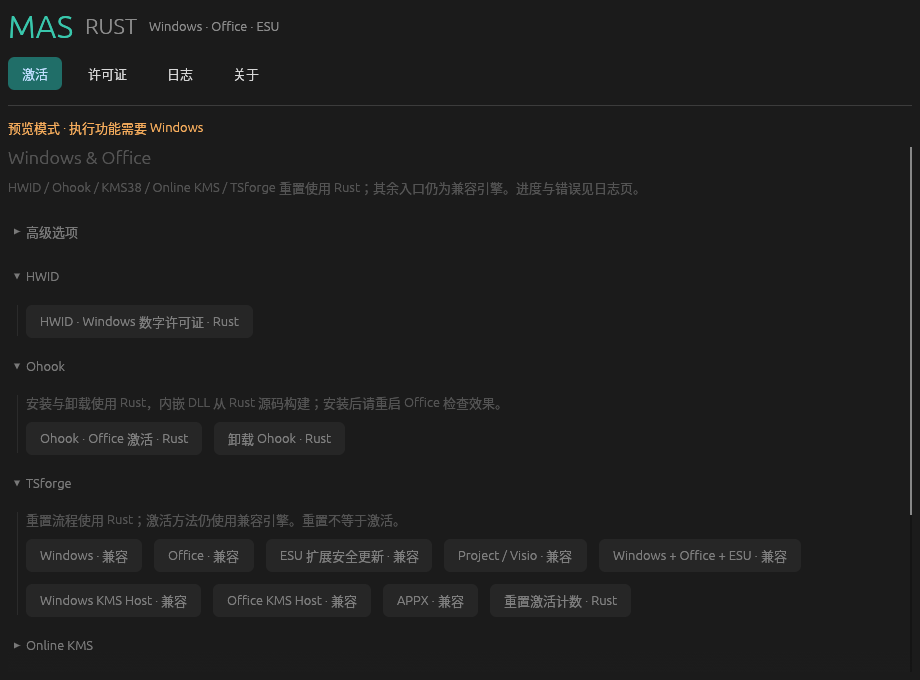
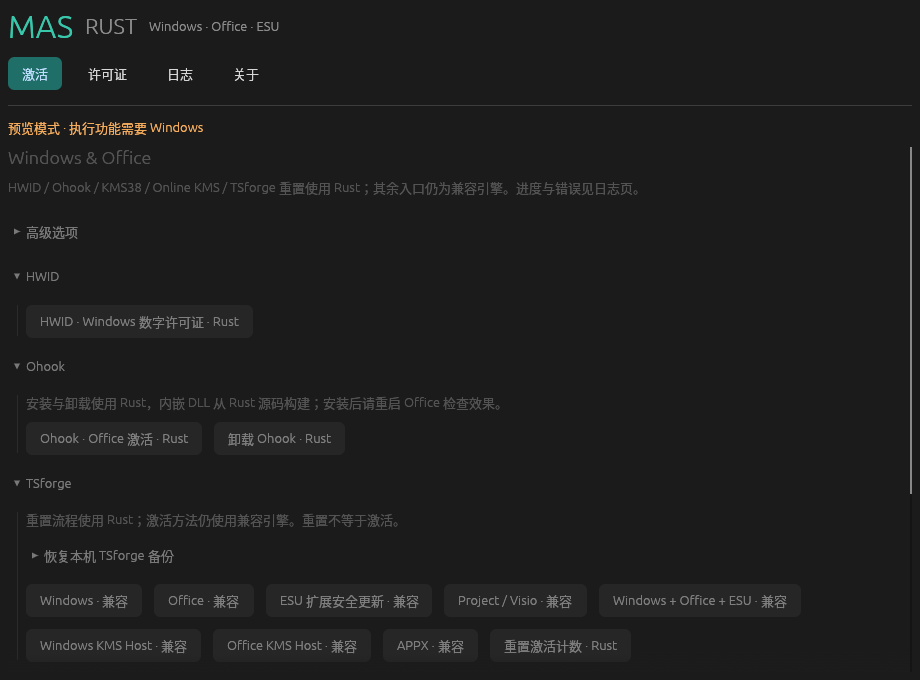
Expose validated TSforge backup recovery in the GUI

diff --git a/src/app.rs b/src/app.rs
@@ -25,6 +25,7 @@ enum Event {
 enum Job {
     Engine(Operation, Options),
     License(Product, Action),
+    RestoreBackup(String),
 }
 
 pub struct MasApp {
@@ -35,6 +36,7 @@ pub struct MasApp {
     host: String,
     port: String,
     options: Options,
+    backup_directory: String,
     pending: Option<Job>,
     receiver: Option<mpsc::Receiver<Event>>,
     log: String,
@@ -51,6 +53,7 @@ impl Default for MasApp {
             host: String::new(),
             port: "1688".into(),
             options: Options::default(),
+            backup_directory: String::new(),
             pending: None,
             receiver: None,
             log: "准备就绪。选择功能后查看并确认操作。\n".into(),
@@ -73,6 +76,7 @@ impl MasApp {
             };
             let result = match job {
                 Job::Engine(op, options) => engine::run(op, options, &report),
+                Job::RestoreBackup(path) => engine::restore_tsforge(&path, &report),
                 Job::License(product, action) => {
                     process::execute(product, action, Arc::new(AtomicBool::new(false)))
                         .map(|r| r.output)
@@ -124,6 +128,16 @@ impl MasApp {
                     ui.label("原生支持 Windows、Office C2R 许可转换和 MSI 批量许可；可禁止自动转换。高级选项可指定服务器和端口，旧任务卸载仍在兼容菜单。");
                 }
                 if category == "工具箱" { ui.label("打开完整上游菜单：查询状态、更改 Windows / Office 版本、故障排查、提取 $OEM$、帮助及其他高级设置。"); }
+                if category == "TSforge" {
+                    ui.collapsing("恢复本机 TSforge 备份", |ui| {
+                        ui.label("粘贴日志中的阶段备份目录。恢复会替换当前许可存储，并另行备份恢复前状态。");
+                        ui.add(egui::TextEdit::singleline(&mut self.backup_directory).desired_width(f32::INFINITY).hint_text("包含 manifest.json 的备份目录"));
+                        let path = self.backup_directory.trim().trim_matches('"');
+                        if ui.add_enabled(!path.is_empty(), egui::Button::new("恢复备份 · Rust")).clicked() {
+                            self.pending = Some(Job::RestoreBackup(path.to_owned()));
+                        }
+                    });
+                }
                 ui.horizontal_wrapped(|ui| {
                     for op in engine::OPERATIONS.iter().filter(|op| op.category == category) {
                         if ui.button(format!("{} · {}", op.title, if engine::is_native(*op) { "Rust" } else { "兼容" })).clicked() { self.pending = Some(Job::Engine(*op, self.options.clone())); }
@@ -332,7 +346,7 @@ impl MasApp {
                                 ui.label("Office 激活会清理用户许可缓存及共享/设备许可设置；可能需要重新登录 Office。");
                             }
                             if op.args == ["/Z-Reset"] {
-                                ui.label("将重置许可存储中的 rearm 计数、宽限/评估计时器及相关标记。每个阶段保留备份；这不等于激活系统。当前原生路径支持 Windows 8.1 及更新版本。");
+                                ui.label("将重置许可存储中的 rearm 计数、宽限/评估计时器及相关标记。每个阶段保留备份；这不等于激活系统。当前原生路径仅处理现代存储布局（build 9600+）。");
                             }
                             if op.args == ["/Ohook"] {
                                 ui.label("将安装 Office 许可和 Rust DLL，并清理用户许可缓存。请先关闭 Office；可能需要重新登录。");
@@ -343,6 +357,11 @@ impl MasApp {
                                     "KMS38 是历史实现，新系统可能不支持。",
                                 );
                             }
+                        }
+                        Job::RestoreBackup(path) => {
+                            ui.label("恢复本机 TSforge 阶段备份");
+                            ui.monospace(path);
+                            ui.label("将当前许可存储恢复到所选备份时刻，覆盖该时刻之后的许可变化。仅使用本机备份；程序将验证目标路径、校验和及存储格式，并备份当前状态。此操作不代表激活成功。");
                         }
                         Job::License(product, action) => {
                             ui.label(format!("{} · {}", product.name(), action.label()));

diff --git a/src/native/tsforge/runtime.rs b/src/native/tsforge/runtime.rs
@@ -1,7 +1,7 @@
 use super::{
     reset::{self, Step},
     service, sl,
-    transaction::Transaction,
+    transaction::{self, Transaction},
 };
 use crate::native::{platform, registry::Key};
 use std::{ffi::OsString, os::windows::ffi::OsStringExt, path::PathBuf};
@@ -57,12 +57,12 @@ fn physical_path() -> Result<PathBuf, String> {
 }
 
 /// engine::run already holds the process-wide licensing-operation mutex.
-pub fn reset(report: &dyn Fn(&str)) -> Result<String, String> {
+fn preflight() -> Result<PathBuf, String> {
     if !crate::process::is_admin() {
         return Err("请以管理员身份运行".into());
     }
     if std::env::var("PROCESSOR_ARCHITEW6432").is_ok_and(|value| !value.is_empty()) {
-        return Err("原生 TSforge 重置须在 Windows x64 本机运行，不支持跨架构仿真。".into());
+        return Err("原生 TSforge 存储操作须在 Windows x64 本机运行，不支持跨架构仿真。".into());
     }
     let version_key = Key::open(
         r"SOFTWARE\Microsoft\Windows NT\CurrentVersion",
@@ -76,10 +76,14 @@ pub fn reset(report: &dyn Fn(&str)) -> Result<String, String> {
         .parse()
         .map_err(|_| "Windows 构建号无效")?;
     if build < 9600 {
-        return Err("原生 TSforge 重置尚未接入 Vista/Windows 7/8 的存储与服务布局。".into());
+        return Err("原生 TSforge 存储操作尚未接入 Vista/Windows 7/8 的存储与服务布局。".into());
     }
     sl::ensure_refresh_available().map_err(|error| error.to_string())?;
-    let path = physical_path()?;
+    physical_path()
+}
+
+pub fn reset(report: &dyn Fn(&str)) -> Result<String, String> {
+    let path = preflight()?;
     report(&format!(
         "原生 Rust TSforge 重置：{}；每阶段先保存备份，不调用 PowerShell。",
         path.display()
@@ -133,4 +137,42 @@ pub fn reset(report: &dyn Fn(&str)) -> Result<String, String> {
             "TSforge 重置失败（已完成 {completed}/3 个存储阶段）：{error}。此前完成的阶段仍有效，备份路径见日志。"
         )),
     }
+}
+
+/// The engine holds OperationGuard; the manifest cannot select arbitrary targets.
+pub fn restore(backup: &std::path::Path, report: &dyn Fn(&str)) -> Result<String, String> {
+    if !backup.is_absolute() || !backup.is_dir() {
+        return Err("请选择本机备份目录的绝对路径，目录中须有 manifest.json。".into());
+    }
+    let path = preflight()?;
+    report(&format!(
+        "原生 Rust TSforge 恢复：{} → {}",
+        backup.display(),
+        path.display()
+    ));
+    let mut restored = false;
+    let result = service::stopped("sppsvc", || {
+        let undo = transaction::restore_validated(backup, &[path], |_, bytes| {
+            reset::decode_modern(bytes).map(|_| ())
+        })
+        .map_err(|error| error.to_string())?;
+        restored = true;
+        report(&format!(
+            "已恢复存储并完成回读校验。恢复前状态备份：{}",
+            undo.display()
+        ));
+        Ok(())
+    });
+    if let Err(error) = result {
+        return Err(format!(
+            "恢复流程失败（存储{}恢复）：{error}",
+            if restored { "已" } else { "尚未完整" }
+        ));
+    }
+    sl::refresh_license_status()
+        .map_err(|error| format!("存储已恢复，但许可状态刷新失败：{error}"))?;
+    Ok(
+        "已恢复所选阶段备份。恢复前的状态已另行备份，路径见日志；请检查 Windows/Office 状态。"
+            .into(),
+    )
 }

diff --git a/src/native/tsforge/transaction.rs b/src/native/tsforge/transaction.rs
@@ -123,7 +123,6 @@ pub struct Failure {
 
 impl Transaction {
     /// Explicit replacement (used by recovery). For read/modify/write, use edit.
-    #[cfg(test)]
     pub fn prepare(plan: Vec<(PathBuf, Vec<u8>)>) -> io::Result<Self> {
         let (paths, replacements): (Vec<_>, Vec<_>) = plan.into_iter().unzip();
         Self::edit(paths, |_| Ok(replacements))
@@ -290,7 +289,15 @@ impl Transaction {
 /// restore through a new transaction (so a failed recovery can also roll back).
 #[cfg(test)]
 pub fn restore(backup: &Path, expected: &[PathBuf]) -> Result<PathBuf, Failure> {
-    let prepare = || -> io::Result<Transaction> {
+    restore_validated(backup, expected, |_, _| Ok(()))
+}
+
+pub fn restore_validated(
+    backup: &Path,
+    expected: &[PathBuf],
+    mut validate: impl FnMut(usize, &[u8]) -> io::Result<()>,
+) -> Result<PathBuf, Failure> {
+    let mut prepare = || -> io::Result<Transaction> {
         plain_ancestors(backup).map_err(io::Error::other)?;
         let manifest_path = backup.join("manifest.json");
         plain_ancestors(&manifest_path).map_err(io::Error::other)?;
@@ -334,6 +341,7 @@ pub fn restore(backup: &Path, expected: &[PathBuf]) -> Result<PathBuf, Failure> 
             if total > MAX_BYTES {
                 return Err(invalid("backup set exceeds supported size"));
             }
+            validate(index, &original)?;
             plan.push((expected, original));
         }
         Transaction::prepare(plan)
@@ -482,6 +490,28 @@ mod tests {
         .unwrap();
         assert_eq!(fs::read(&paths[0]).unwrap(), b"original-0-edited");
         assert_eq!(fs::read(&paths[1]).unwrap(), b"original-1-edited");
+    }
+    #[test]
+    fn codec_rejection_of_any_backup_prevents_all_restore_writes() {
+        let (_dir, paths) = stores();
+        let backup = Transaction::prepare(plan(&paths))
+            .unwrap()
+            .commit()
+            .unwrap();
+        let mut checked = Vec::new();
+        let result = restore_validated(&backup, &paths, |index, bytes| {
+            checked.push(index);
+            assert_eq!(bytes, format!("original-{index}").as_bytes());
+            if index == 1 {
+                Err(invalid("invalid encrypted store"))
+            } else {
+                Ok(())
+            }
+        });
+        assert!(result.is_err());
+        assert_eq!(checked, [0, 1]);
+        assert_eq!(fs::read(&paths[0]).unwrap(), b"");
+        assert_eq!(fs::read(&paths[1]).unwrap(), vec![1; 19]);
     }
     #[test]
     fn dropping_prepared_transaction_is_read_only() {

diff --git a/src/native/tsforge/reset.rs b/src/native/tsforge/reset.rs
@@ -80,7 +80,7 @@ pub fn apply(store: &mut Store, step: Step) -> usize {
 
 /// Authenticated read/modify/write for the modern store used since build 9600.
 /// Unknown formats fail before the transaction can write any replacement.
-pub fn transform(original: &[u8], step: Step) -> std::io::Result<(Vec<u8>, usize)> {
+pub fn decode_modern(original: &[u8]) -> std::io::Result<(Store, bool)> {
     use super::crypto::{self, Version};
     let (plaintext, production) = match crypto::decrypt(original, true, Version::Modern) {
         Ok(data) => (data, true),
@@ -93,7 +93,12 @@ pub fn transform(original: &[u8], step: Step) -> std::io::Result<(Vec<u8>, usize
             }
         },
     };
-    let mut store = Store::decode(&plaintext, Format::Modern)?;
+    Ok((Store::decode(&plaintext, Format::Modern)?, production))
+}
+
+pub fn transform(original: &[u8], step: Step) -> std::io::Result<(Vec<u8>, usize)> {
+    use super::crypto::{self, Version};
+    let (mut store, production) = decode_modern(original)?;
     let changed = apply(&mut store, step);
     if changed == 0 {
         return Ok((original.to_vec(), 0));

diff --git a/src/engine.rs b/src/engine.rs
@@ -211,6 +211,19 @@ pub fn run(op: Operation, options: Options, report: &dyn Fn(&str)) -> Result<Str
     run_compatibility(op, options, report)
 }
 
+pub fn restore_tsforge(backup: &str, report: &dyn Fn(&str)) -> Result<String, String> {
+    #[cfg(windows)]
+    {
+        let _guard = crate::native::session::OperationGuard::acquire()?;
+        crate::native::tsforge::restore(std::path::Path::new(backup), report)
+    }
+    #[cfg(not(windows))]
+    {
+        let _ = (backup, report);
+        Err("TSforge 恢复需要在 Windows 上运行".into())
+    }
+}
+
 pub fn is_native(op: Operation) -> bool {
     matches!(op.args, ["/Ohook"] | ["/Ohook-Uninstall"] | ["/Z-Reset"])
         || (!op.args.is_empty() && matches!(op.category, "HWID" | "KMS38" | "Online KMS"))

diff --git a/build.rs b/build.rs
@@ -135,7 +135,7 @@ fn main() {
             .set("LegalCopyright", "MAS Rust contributors")
             .set_manifest(
                 r#"<assembly xmlns="urn:schemas-microsoft-com:asm.v1" manifestVersion="1.0">
-  <assemblyIdentity version="0.6.0.0" processorArchitecture="*" name="MAS.Rust" type="win32"/>
+  <assemblyIdentity version="0.6.0.1" processorArchitecture="*" name="MAS.Rust" type="win32"/>
   <description>MAS Rust</description>
   <trustInfo xmlns="urn:schemas-microsoft-com:asm.v3">
     <security>

diff --git a/src/native/tsforge/mod.rs b/src/native/tsforge/mod.rs
@@ -16,4 +16,4 @@ mod variable_bag;
 #[cfg(windows)]
 mod runtime;
 #[cfg(windows)]
-pub use runtime::reset;
+pub use runtime::{reset, restore};

diff --git a/README.md b/README.md
@@ -11,7 +11,7 @@
 
 [功能](#功能) · [界面预览](#界面预览) · [获取与使用](#获取与使用) · [构建与运行](#构建与运行) · [验证范围](#验证范围)
 
-**v0.6.0-dev：TSforge 重置流程接入 Rust；Ohook 安装、卸载及 x86/x64 DLL 均使用 Rust。**
+**v0.6.0-dev.2：TSforge 重置与备份恢复入口接入 Rust；Ohook 安装、卸载及 x86/x64 DLL 均使用 Rust。**
 原生路径直接调用 COM/WMI、Windows 服务与许可 API，不启动 PowerShell；票据签名由 Rust 实现，导入使用 Windows 自带的 `clipup.exe`。
 
 TSforge 的重置入口已接入 Rust 存储解析、加密、备份回滚和服务控制，当前支持 build 9600 及更新版本，尚待 Windows 实机验证。TSforge 激活方法、Office 的部分修复分支及高级工具仍使用固定版本的上游兼容引擎，界面明确标注“Rust / 兼容”。**这还不是完整的纯 Rust MAS**，各模块的实现范围与剩余工作见 [核心分析与迁移记录](docs/native-migration.md)。
@@ -24,6 +24,12 @@ TSforge 的重置入口已接入 Rust 存储解析、加密、备份回滚和服
 
 ![MAS Rust 许可证管理页](screenshots/mas-rust-license.png)
 
+### 恢复 TSforge 备份
+
+在“激活 → TSforge → 恢复本机 TSforge 备份”中粘贴日志里的备份目录（包含 `manifest.json`），点击“恢复备份 · Rust”并核对确认信息。只使用本机生成的备份。
+
+重置按阶段生成备份；若要恢复到本轮重置前的物理存储，应选择本轮**第一个阶段**的备份，而不是最后一个。恢复会校验目标路径、SHA-256、加密完整性及存储格式，先保存当前文件，再写入所选备份。它只恢复 `data.dat`，不回退注册表、tokens.dat 或其他许可组件；可能覆盖备份后发生的许可变化。原生重置和恢复仍待 Windows 实机验收。
+
 ## 功能
 
 | 功能 | 入口 |
@@ -31,7 +37,7 @@ TSforge 的重置入口已接入 Rust 存储解析、加密、备份回滚和服
 | HWID | 原生 Rust 主流程，支持禁止自动更改版本 |
 | Ohook / 卸载 | Rust 许可准备、DLL 构建/部署、用户配置和卸载恢复 |
 | TSforge Windows / Office / ESU / Project / Visio / KMS Host / APPX | 兼容引擎，支持默认、SCID、ZCID、KMS4k 方法 |
-| TSforge 重置 | Rust：标记、rearm 计数、宽限/评估计时器、密钥变更锁；分阶段备份 |
+| TSforge 重置 / 备份恢复 | Rust：标记、rearm 计数、宽限/评估计时器、密钥变更锁；分阶段备份与校验恢复 |
 | Online KMS Windows / Office / Project / Visio / 卸载 | Rust 主流程；Office 支持 C2R 转换及 MSI 批量许可；支持自定义主机、端口与原生续期 |
 | KMS38 | 原生 Rust 主流程；历史菜单仍为兼容引擎 |
 | 激活状态、Windows / Office 版本切换、排障、OEM 提取、其他高级选项 | 工具箱 → 完整 MAS 菜单 |

diff --git a/docs/native-migration.md b/docs/native-migration.md
@@ -168,3 +168,10 @@ Ohook 从 v0.5.0-dev 起直接从固定 `ohook-rs` 源码构建两种架构的 D
 新增字段规则测试覆盖版本差异、大小写敏感子串匹配、未知字段保留、幂等性；加密集成测试覆盖两套密钥下的重置及损坏存储拒绝。重置不代表激活成功。尚无真实 Windows 许可存储重置的实机证据，严格解析可能拒绝未覆盖布局；仍需补充真实样本、显式恢复 GUI 与中断恢复入口，继续迁移 SCID/ZCID/KMS4k 等激活流程。原来的总体迁移清单保持未完成。
 
 本轮验证：63 项本地测试通过，Linux 与 Windows GNU 交叉 Clippy 通过；实际 Linux GUI 截图已更新。前两轮 Windows CI 40111353095（SL API）和 40111877322（事务/服务协调）均已全部成功。这些结果不能代替在真实 Windows 许可存储上执行本轮重置的验收。
+
+
+### v0.6.0-dev.2：GUI 备份恢复
+
+TSforge 面板新增备份目录输入与恢复按钮，沿用后台执行、进度日志和操作确认。恢复操作持有同一全局互斥锁，按本机当前路径定位 data.dat；清单不能指定其他写入目标。全部备份通过校验和、RSA/AES 完整性及物理存储格式检查后，才建立恢复事务，先备份当前数据再写入，并恢复服务初始状态、刷新许可状态。操作失败会区分存储是否已经完整恢复；回滚错误和备份目录保留在日志。
+
+新增测试验证即使 SHA-256 正确，只要任意文件未通过格式验证，所有目标都不会被恢复写入。64 项本地测试与 Linux/Windows 交叉 Clippy 通过；没有执行真实系统许可恢复。当前只恢复物理存储，不回退其他组件。GUI 显式恢复已完成，启动时发现中断事务、旧版布局和完整 TSforge 激活流程仍待继续迁移。
